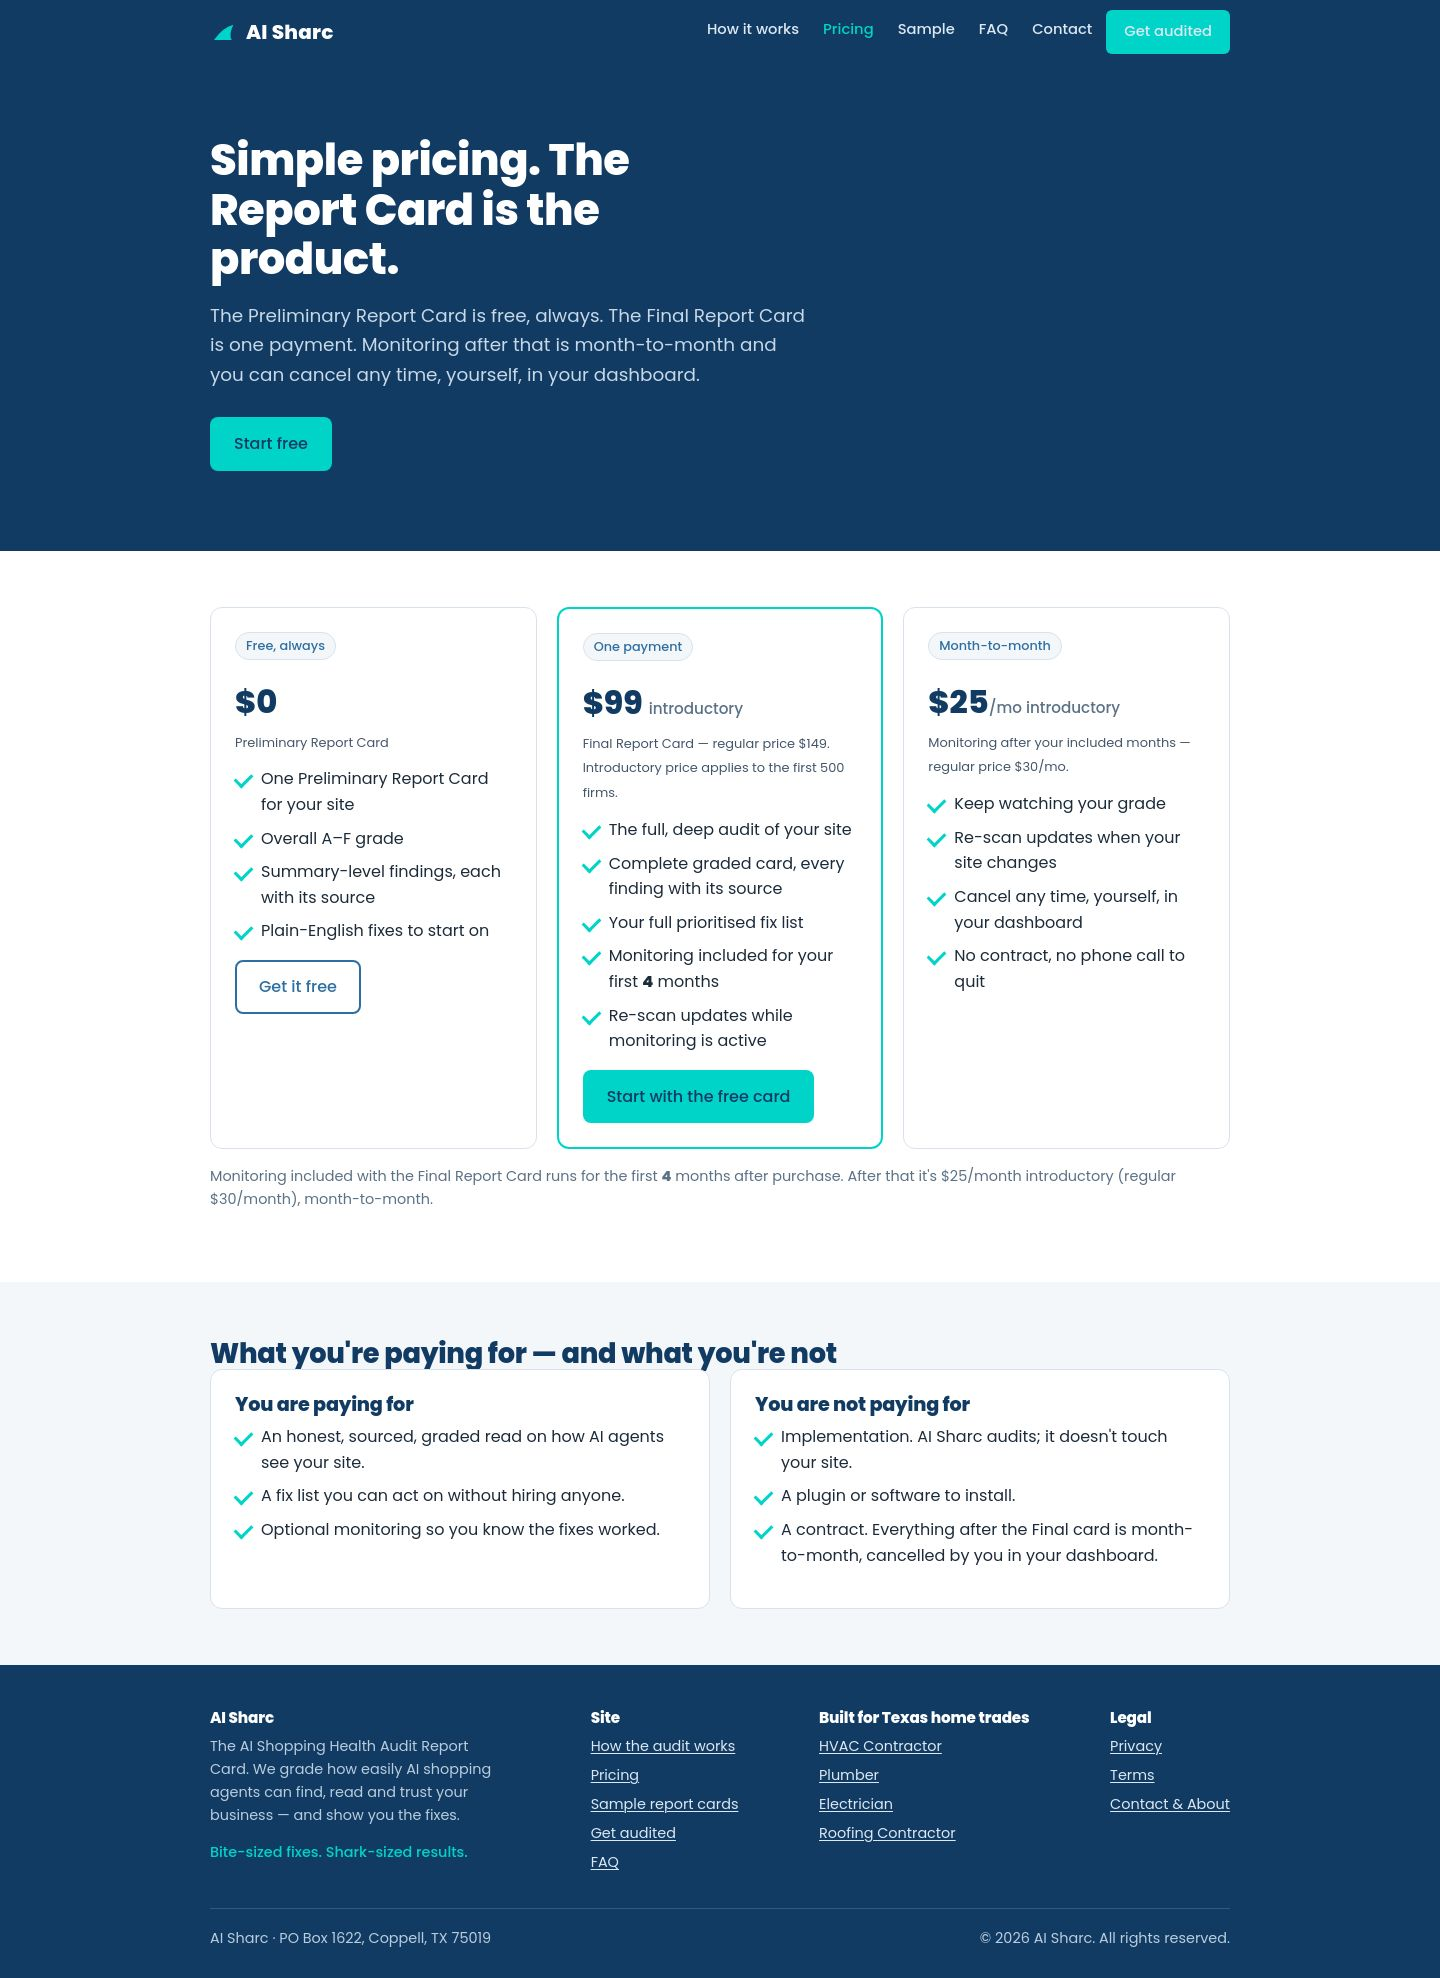
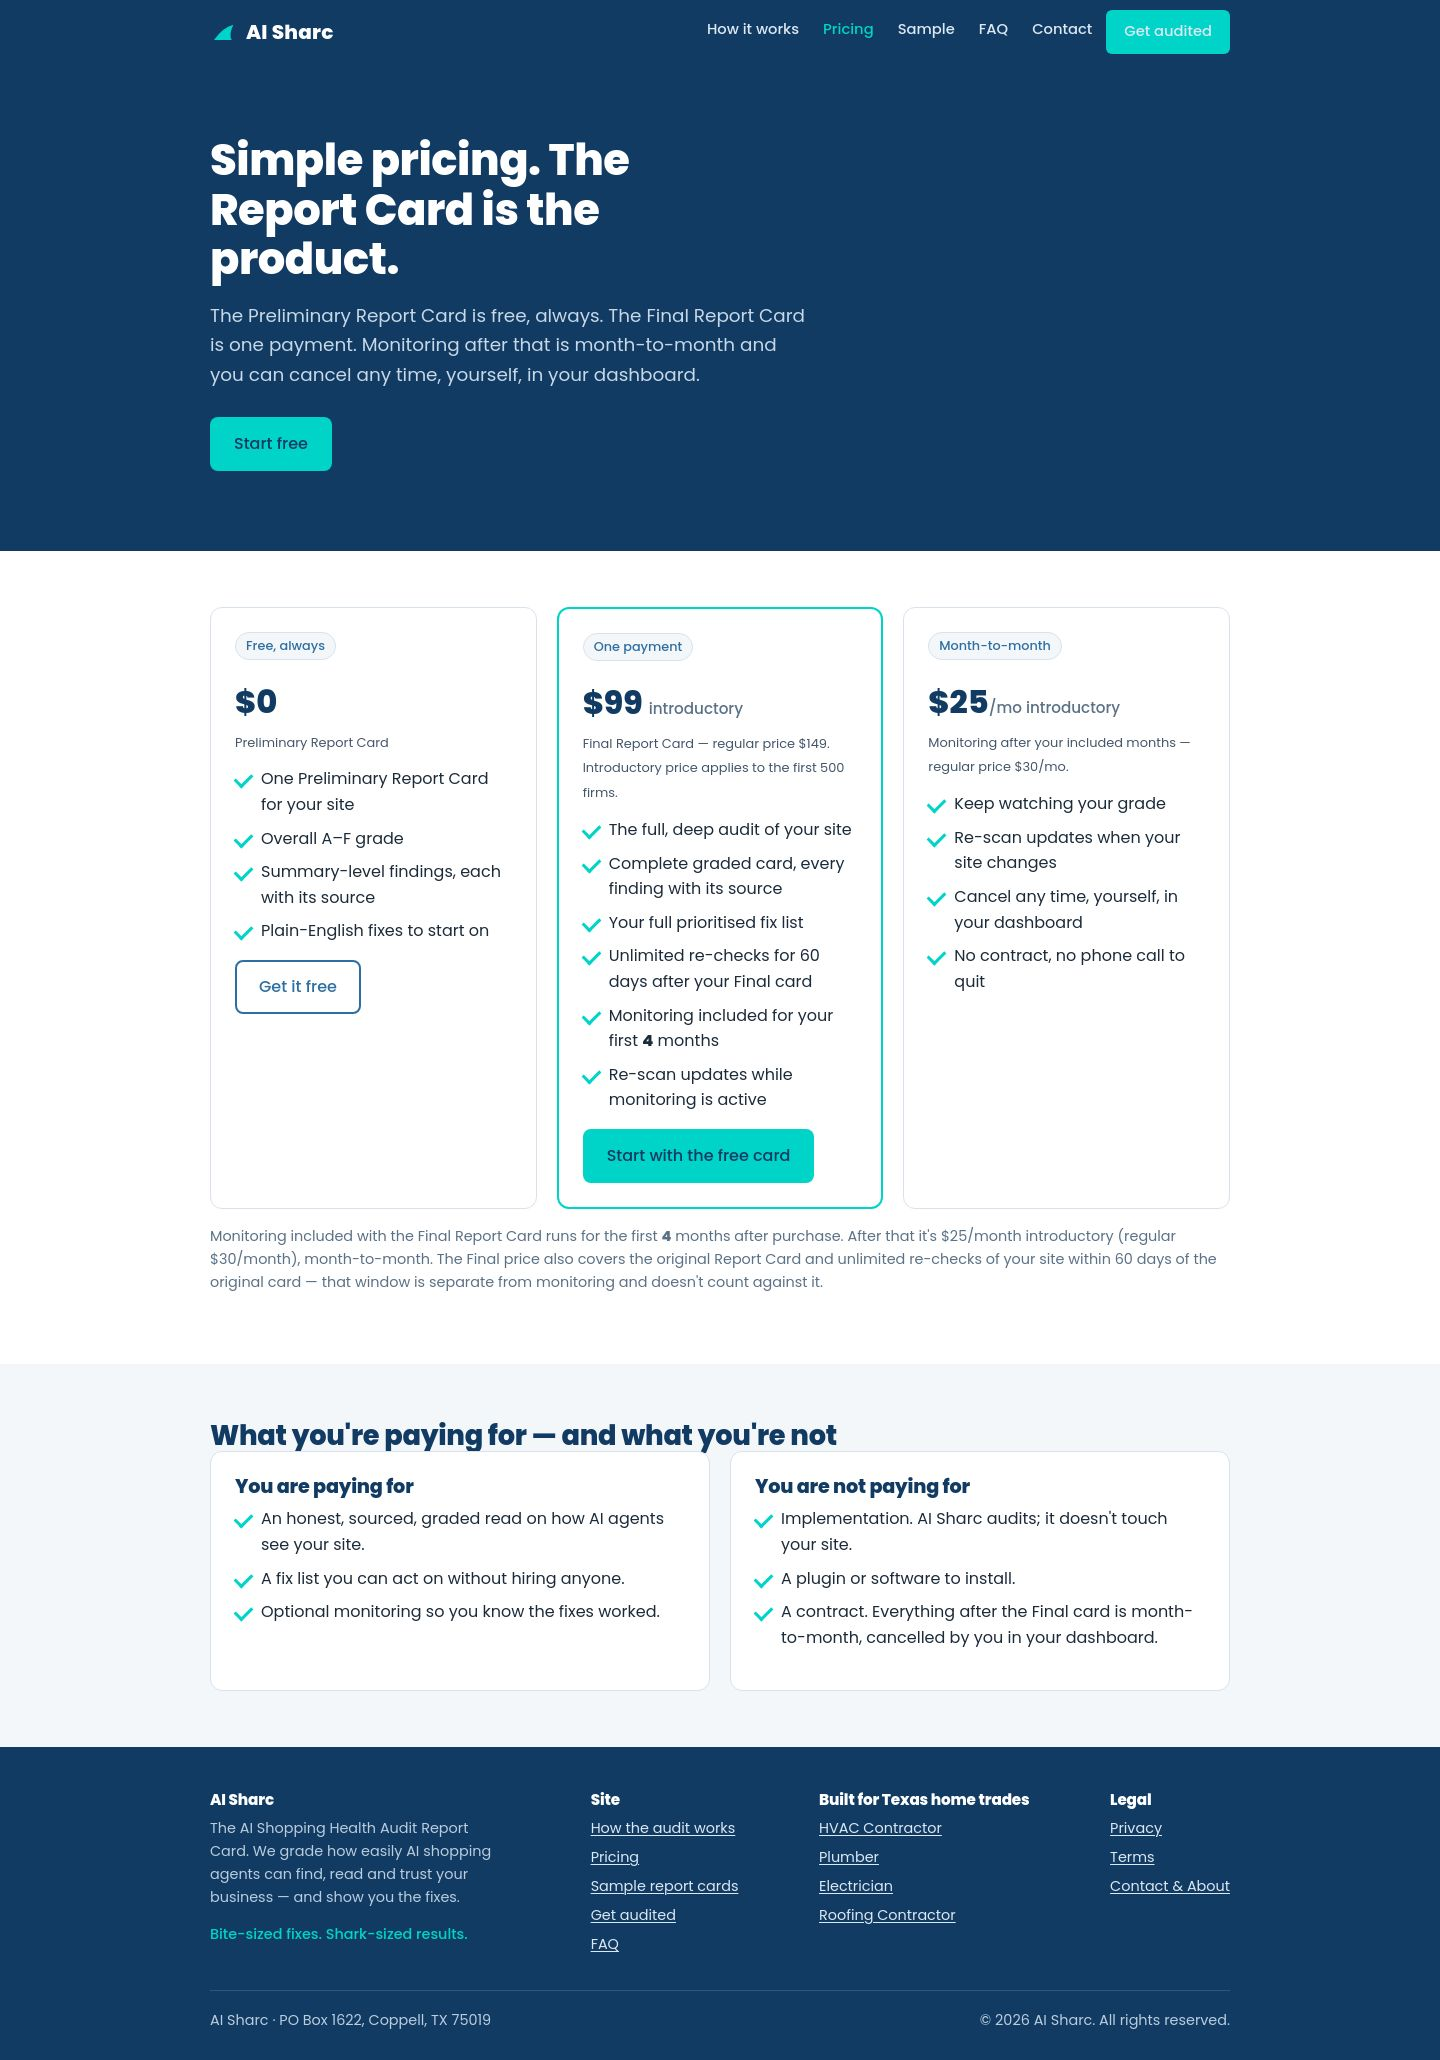
pricing: state 60-day re-check terms (spec v1.22) distinctly from monitoring months

diff --git a/site/pricing.html b/site/pricing.html
@@ -56,6 +56,7 @@
       <li>The full, deep audit of your site</li>
       <li>Complete graded card, every finding with its source</li>
       <li>Your full prioritised fix list</li>
+      <li>Unlimited re-checks for 60 days after your Final card</li>
       <li>Monitoring included for your first <strong>4</strong> months</li>
       <li>Re-scan updates while monitoring is active</li>
     </ul>
@@ -72,7 +73,8 @@
 </div>
 <p class="note" style="margin-top:16px">Monitoring included with the Final Report Card runs for the first
 <strong>4</strong> months after purchase. After that it's $25/month introductory (regular $30/month),
-month-to-month.</p></div></section><section class="alt"><div class="wrap"><h2>What you're paying for &mdash; and what you're not</h2>
+month-to-month. The Final price also covers the original Report Card and unlimited re-checks of your site
+within 60 days of the original card &mdash; that window is separate from monitoring and doesn't count against it.</p></div></section><section class="alt"><div class="wrap"><h2>What you're paying for &mdash; and what you're not</h2>
 <div class="grid g2">
 <div class="card"><h3>You are paying for</h3><ul class="tick"><li>An honest, sourced, graded read on how AI
 agents see your site.</li><li>A fix list you can act on without hiring anyone.</li><li>Optional monitoring

diff --git a/build/content_pages.py b/build/content_pages.py
@@ -129,6 +129,7 @@ pricing_body += _sec("", f'''
       <li>The full, deep audit of your site</li>
       <li>Complete graded card, every finding with its source</li>
       <li>Your full prioritised fix list</li>
+      <li>Unlimited re-checks for 60 days after your Final card</li>
       <li>Monitoring included for your first <strong>{MONITORING_INCLUDED_MONTHS}</strong> months</li>
       <li>Re-scan updates while monitoring is active</li>
     </ul>
@@ -145,7 +146,8 @@ pricing_body += _sec("", f'''
 </div>
 <p class="note" style="margin-top:16px">Monitoring included with the Final Report Card runs for the first
 <strong>{MONITORING_INCLUDED_MONTHS}</strong> months after purchase. After that it's $25/month introductory (regular $30/month),
-month-to-month.</p>''')
+month-to-month. The Final price also covers the original Report Card and unlimited re-checks of your site
+within 60 days of the original card &mdash; that window is separate from monitoring and doesn't count against it.</p>''')
 pricing_body += _sec("alt", '''<h2>What you're paying for &mdash; and what you're not</h2>
 <div class="grid g2">
 <div class="card"><h3>You are paying for</h3><ul class="tick"><li>An honest, sourced, graded read on how AI
